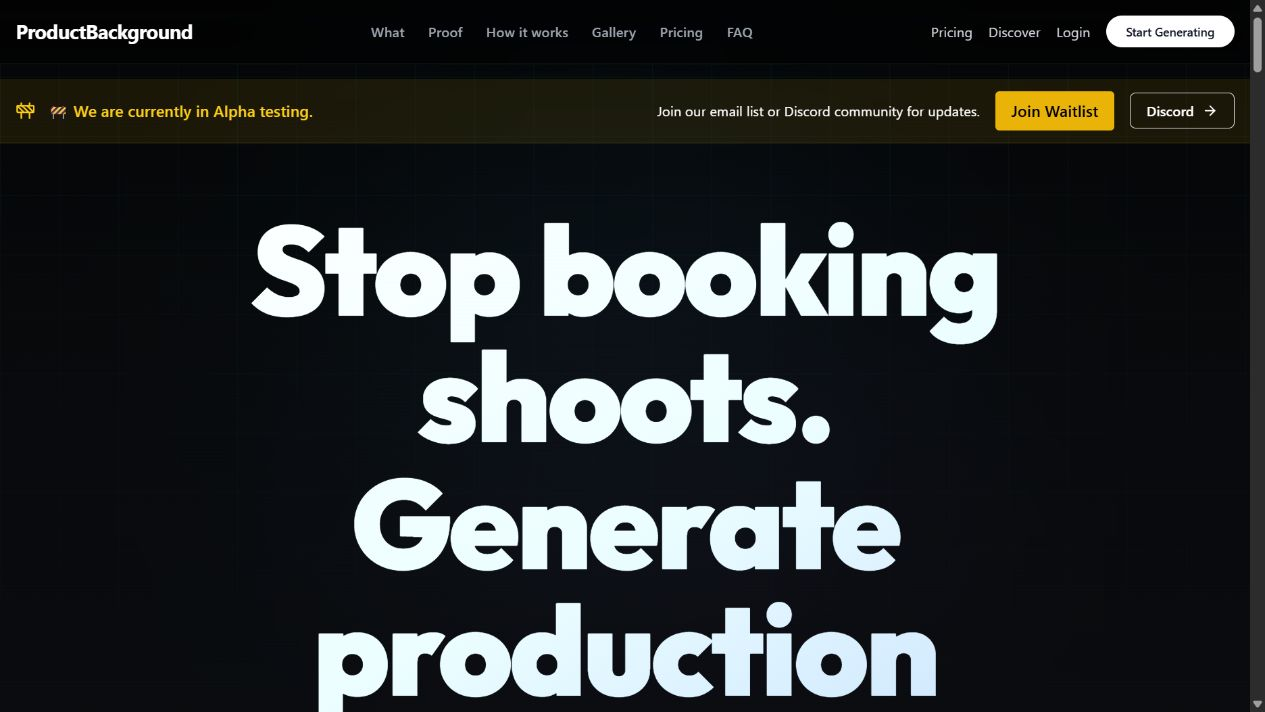
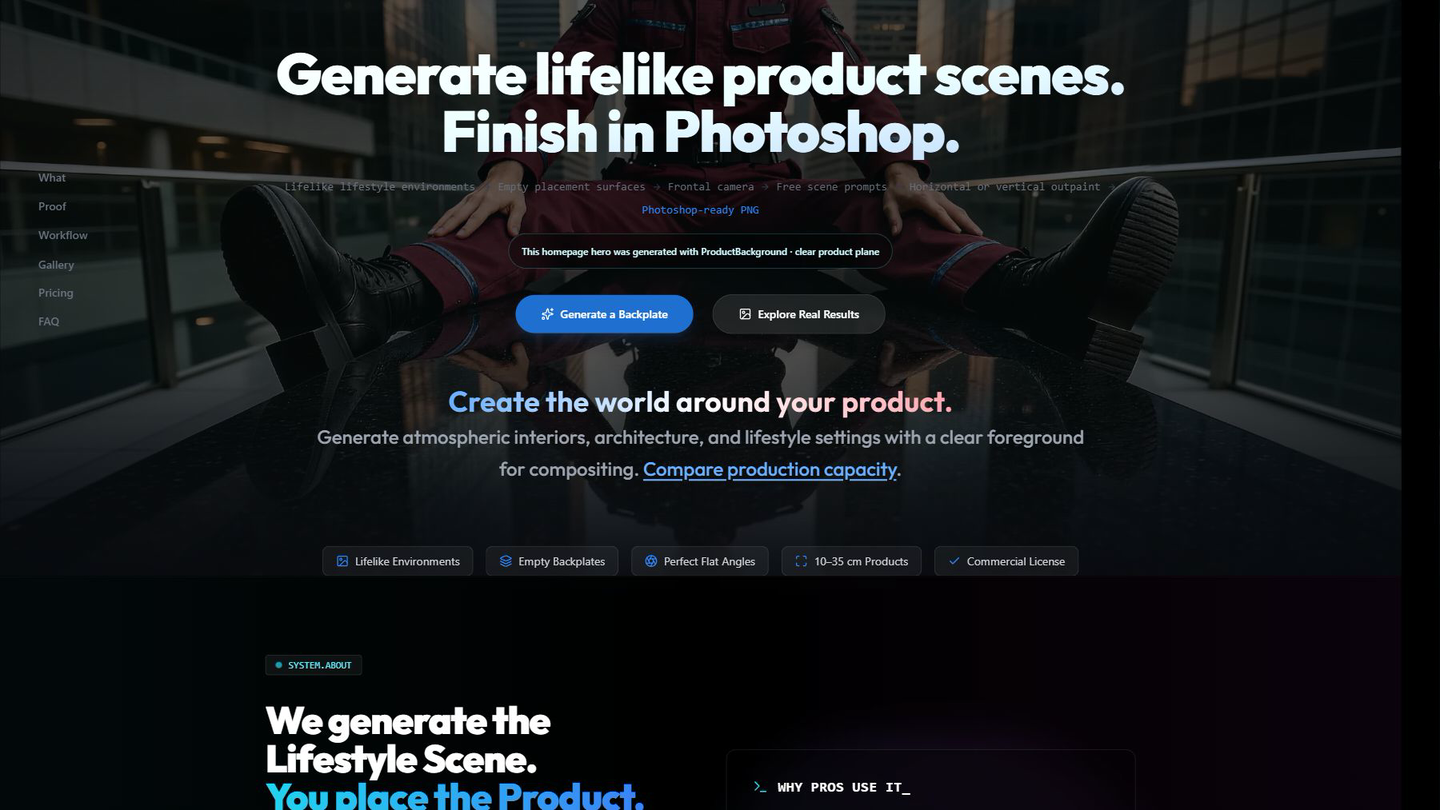
Update project preview screenshots

diff --git a/index.html b/index.html
@@ -98,7 +98,7 @@
       <div class="project-list">
         <article class="project project-featured" data-reveal>
           <a class="project-visual" href="cases/productbackground/" aria-label="Read the ProductBackground case study">
-            <img src="assets/images/productbackground-landing.png" width="1265" height="712" alt="ProductBackground landing page with its production backplates message" loading="lazy">
+            <img src="assets/images/productbackground-landing.png" width="1440" height="810" alt="Current ProductBackground homepage introducing lifelike product scenes and Photoshop-ready backplates" loading="lazy">
             <span class="visual-index">01 / 06</span>
           </a>
           <div class="project-copy">
@@ -140,7 +140,7 @@
 
         <article class="project" data-reveal>
           <a class="project-visual" href="cases/comfy-rail/" aria-label="Read the Comfy Rail case study">
-            <img src="assets/images/comfy-rail-social-preview.png" width="1200" height="630" alt="Comfy Rail production AI runtime and API route diagram" loading="lazy">
+            <img src="assets/images/comfy-rail-social-preview.png" width="1440" height="810" alt="Current Comfy Rail homepage showing the production runtime route from ComfyUI workflow to RunPod endpoint" loading="lazy">
             <span class="visual-index">04 / 06</span>
           </a>
           <div class="project-copy">

diff --git a/cases/productbackground/index.html b/cases/productbackground/index.html
@@ -35,7 +35,7 @@
         <p class="case-summary">Why does the image look empty? That is intentional. ProductBackground creates spacious, high-quality tabletop backplates for products roughly 5–40 cm tall, ready to be composited in Photoshop. The wider platform carries those assets through scene generation, relighting, outpainting, and commercial-resolution delivery.</p>
         <div class="case-actions"><a class="button button-primary" href="https://productbackground.com">View live site <span aria-hidden="true">↗</span></a><a class="text-link" href="#story">Read the case <span aria-hidden="true">↓</span></a></div>
       </div>
-      <figure class="case-media" data-reveal><img src="../../assets/images/productbackground-landing.png" width="1265" height="712" alt="ProductBackground landing page with its production backplates message"></figure>
+      <figure class="case-media" data-reveal><img src="../../assets/images/productbackground-landing.png" width="1440" height="810" alt="Current ProductBackground homepage introducing lifelike product scenes and Photoshop-ready backplates"></figure>
     </section>
 
     <dl class="case-facts shell" data-reveal>

diff --git a/cases/comfy-rail/index.html b/cases/comfy-rail/index.html
@@ -35,7 +35,7 @@
         <p class="case-summary">A maintained runtime system that turns approved ComfyUI workflows into versioned generation, editing, and upscaling services behind one stable API contract.</p>
         <div class="case-actions"><a class="button button-primary" href="https://comfyrail.dev">Visit Comfy Rail <span aria-hidden="true">↗</span></a><a class="text-link" href="https://comfyrail.dev/production-readiness">Readiness guide <span aria-hidden="true">↗</span></a></div>
       </div>
-      <figure class="case-media" data-reveal><img src="../../assets/images/comfy-rail-social-preview.png" width="1200" height="630" alt="Comfy Rail runtime and API route diagram"></figure>
+      <figure class="case-media" data-reveal><img src="../../assets/images/comfy-rail-social-preview.png" width="1440" height="810" alt="Current Comfy Rail homepage showing the production runtime route from ComfyUI workflow to RunPod endpoint"></figure>
     </section>
 
     <dl class="case-facts shell" data-reveal>
